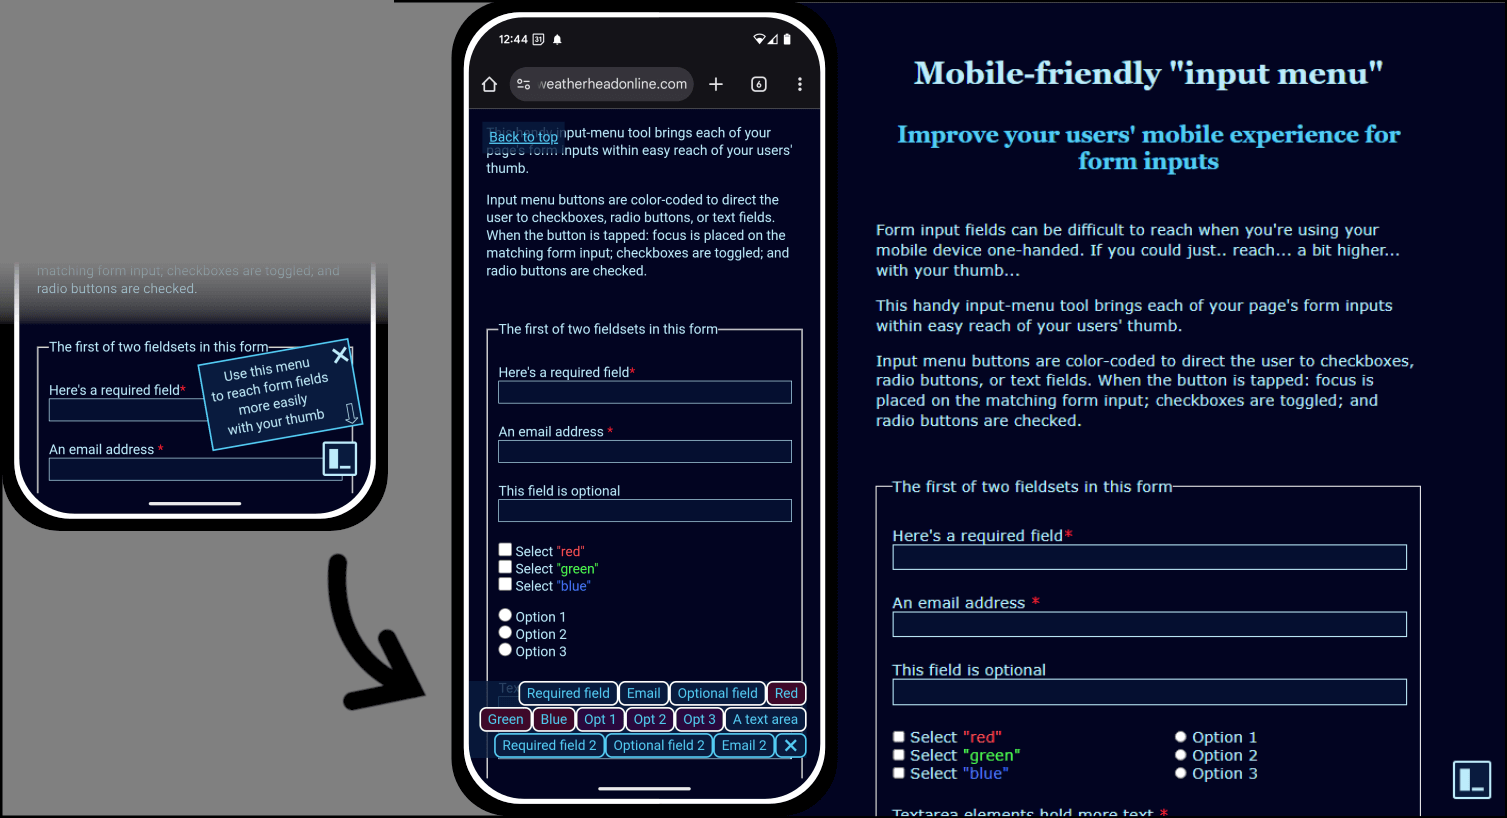
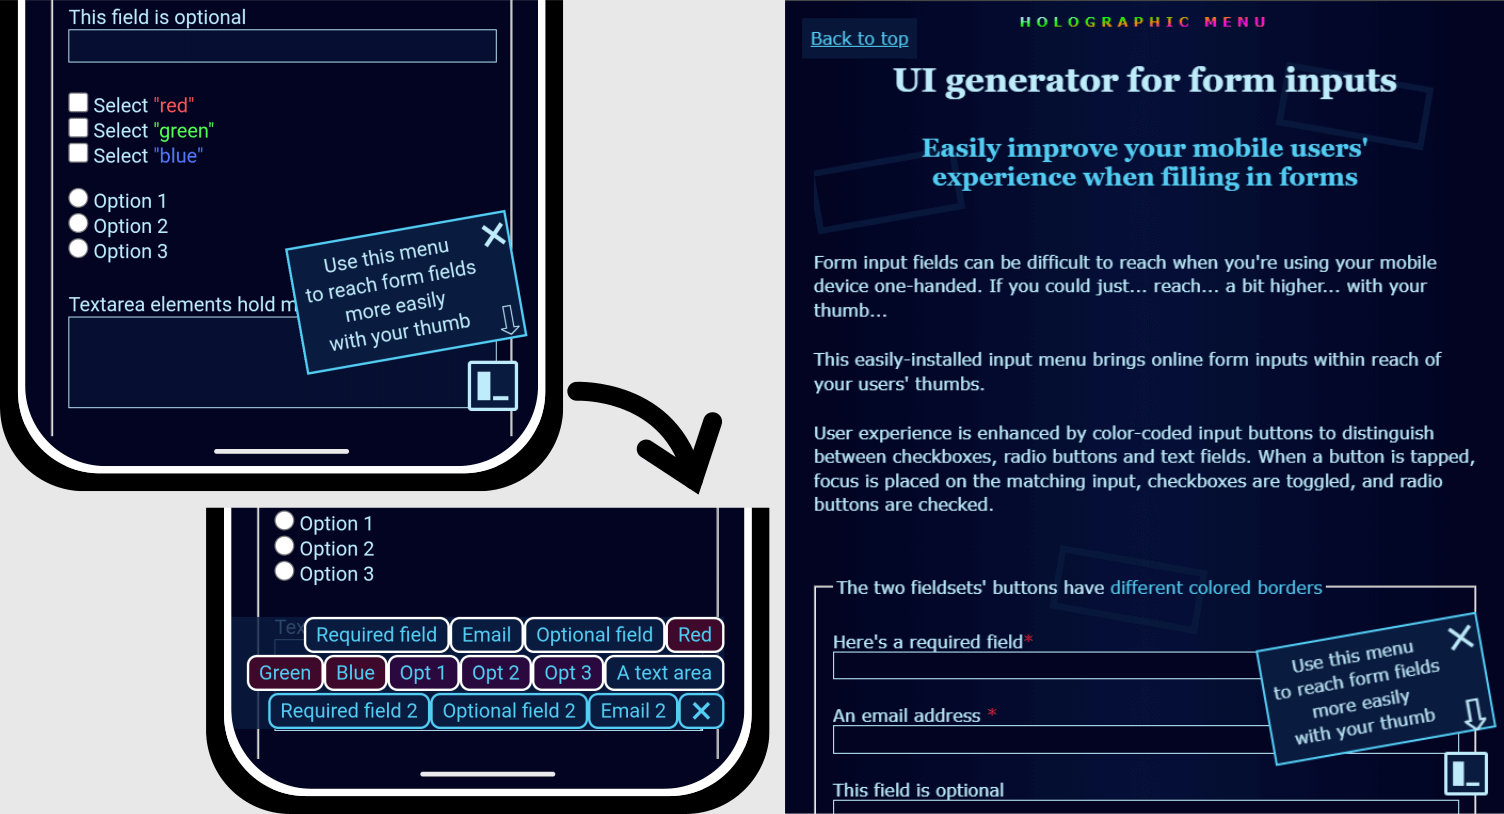
Updated portfolio preview images for holographic-menu, and changed some wording.

diff --git a/js/portfolioCarousel.js b/js/portfolioCarousel.js
@@ -1,12 +1,12 @@
 const portfolioItems = [
     {
         name: "holographMenu",
-        articleLink: "/input-menu/",
+        articleLink: "/holographic-menu/",
         imgSrc: "img/folio_holographicMenu.png",
-        imgAlt: "the website for the new form input menu",
+        imgAlt: "the website for the new form-input menu",
         thumbSrc: "img/folio_holographicMenu_small.png",
-        h3Text: 'Mobile accessibility "input tool"',
-        bodyText: "<p>Form input fields can be difficult to reach when you're using your mobile device one-handed. I've created this innovative input menu to improve accessibility and bring form inputs within easy reach of your thumbs.</p>",
+        h3Text: "Holographic Menu",
+        bodyText: "<p>Form input fields can be difficult to reach when using a mobile device one-handed. This UI generator improves your mobile users' experience by bringing form inputs within easy reach of their thumbs.</p>",
 
     },
     {

diff --git a/index.php b/index.php
@@ -11,7 +11,7 @@
     <meta property="og:title" content="Weatherhead Online">
     <meta property="og:type" content="website">
     <meta property="og:url" content="http://www.weatherheadonline.com">
-    <meta property="og:image" content="img/folio_this_small.png">
+    <meta name="image" property="og:image" content="img/folio_this_small.png">
     <meta property="og:description" content="I create modern, responsive animated websites. My speciality is making special effects for user engagement.">
     <link href="https://fonts.cdnfonts.com/css/cooper-black" rel="stylesheet">
     <link rel="preconnect" href="https://fonts.googleapis.com">
